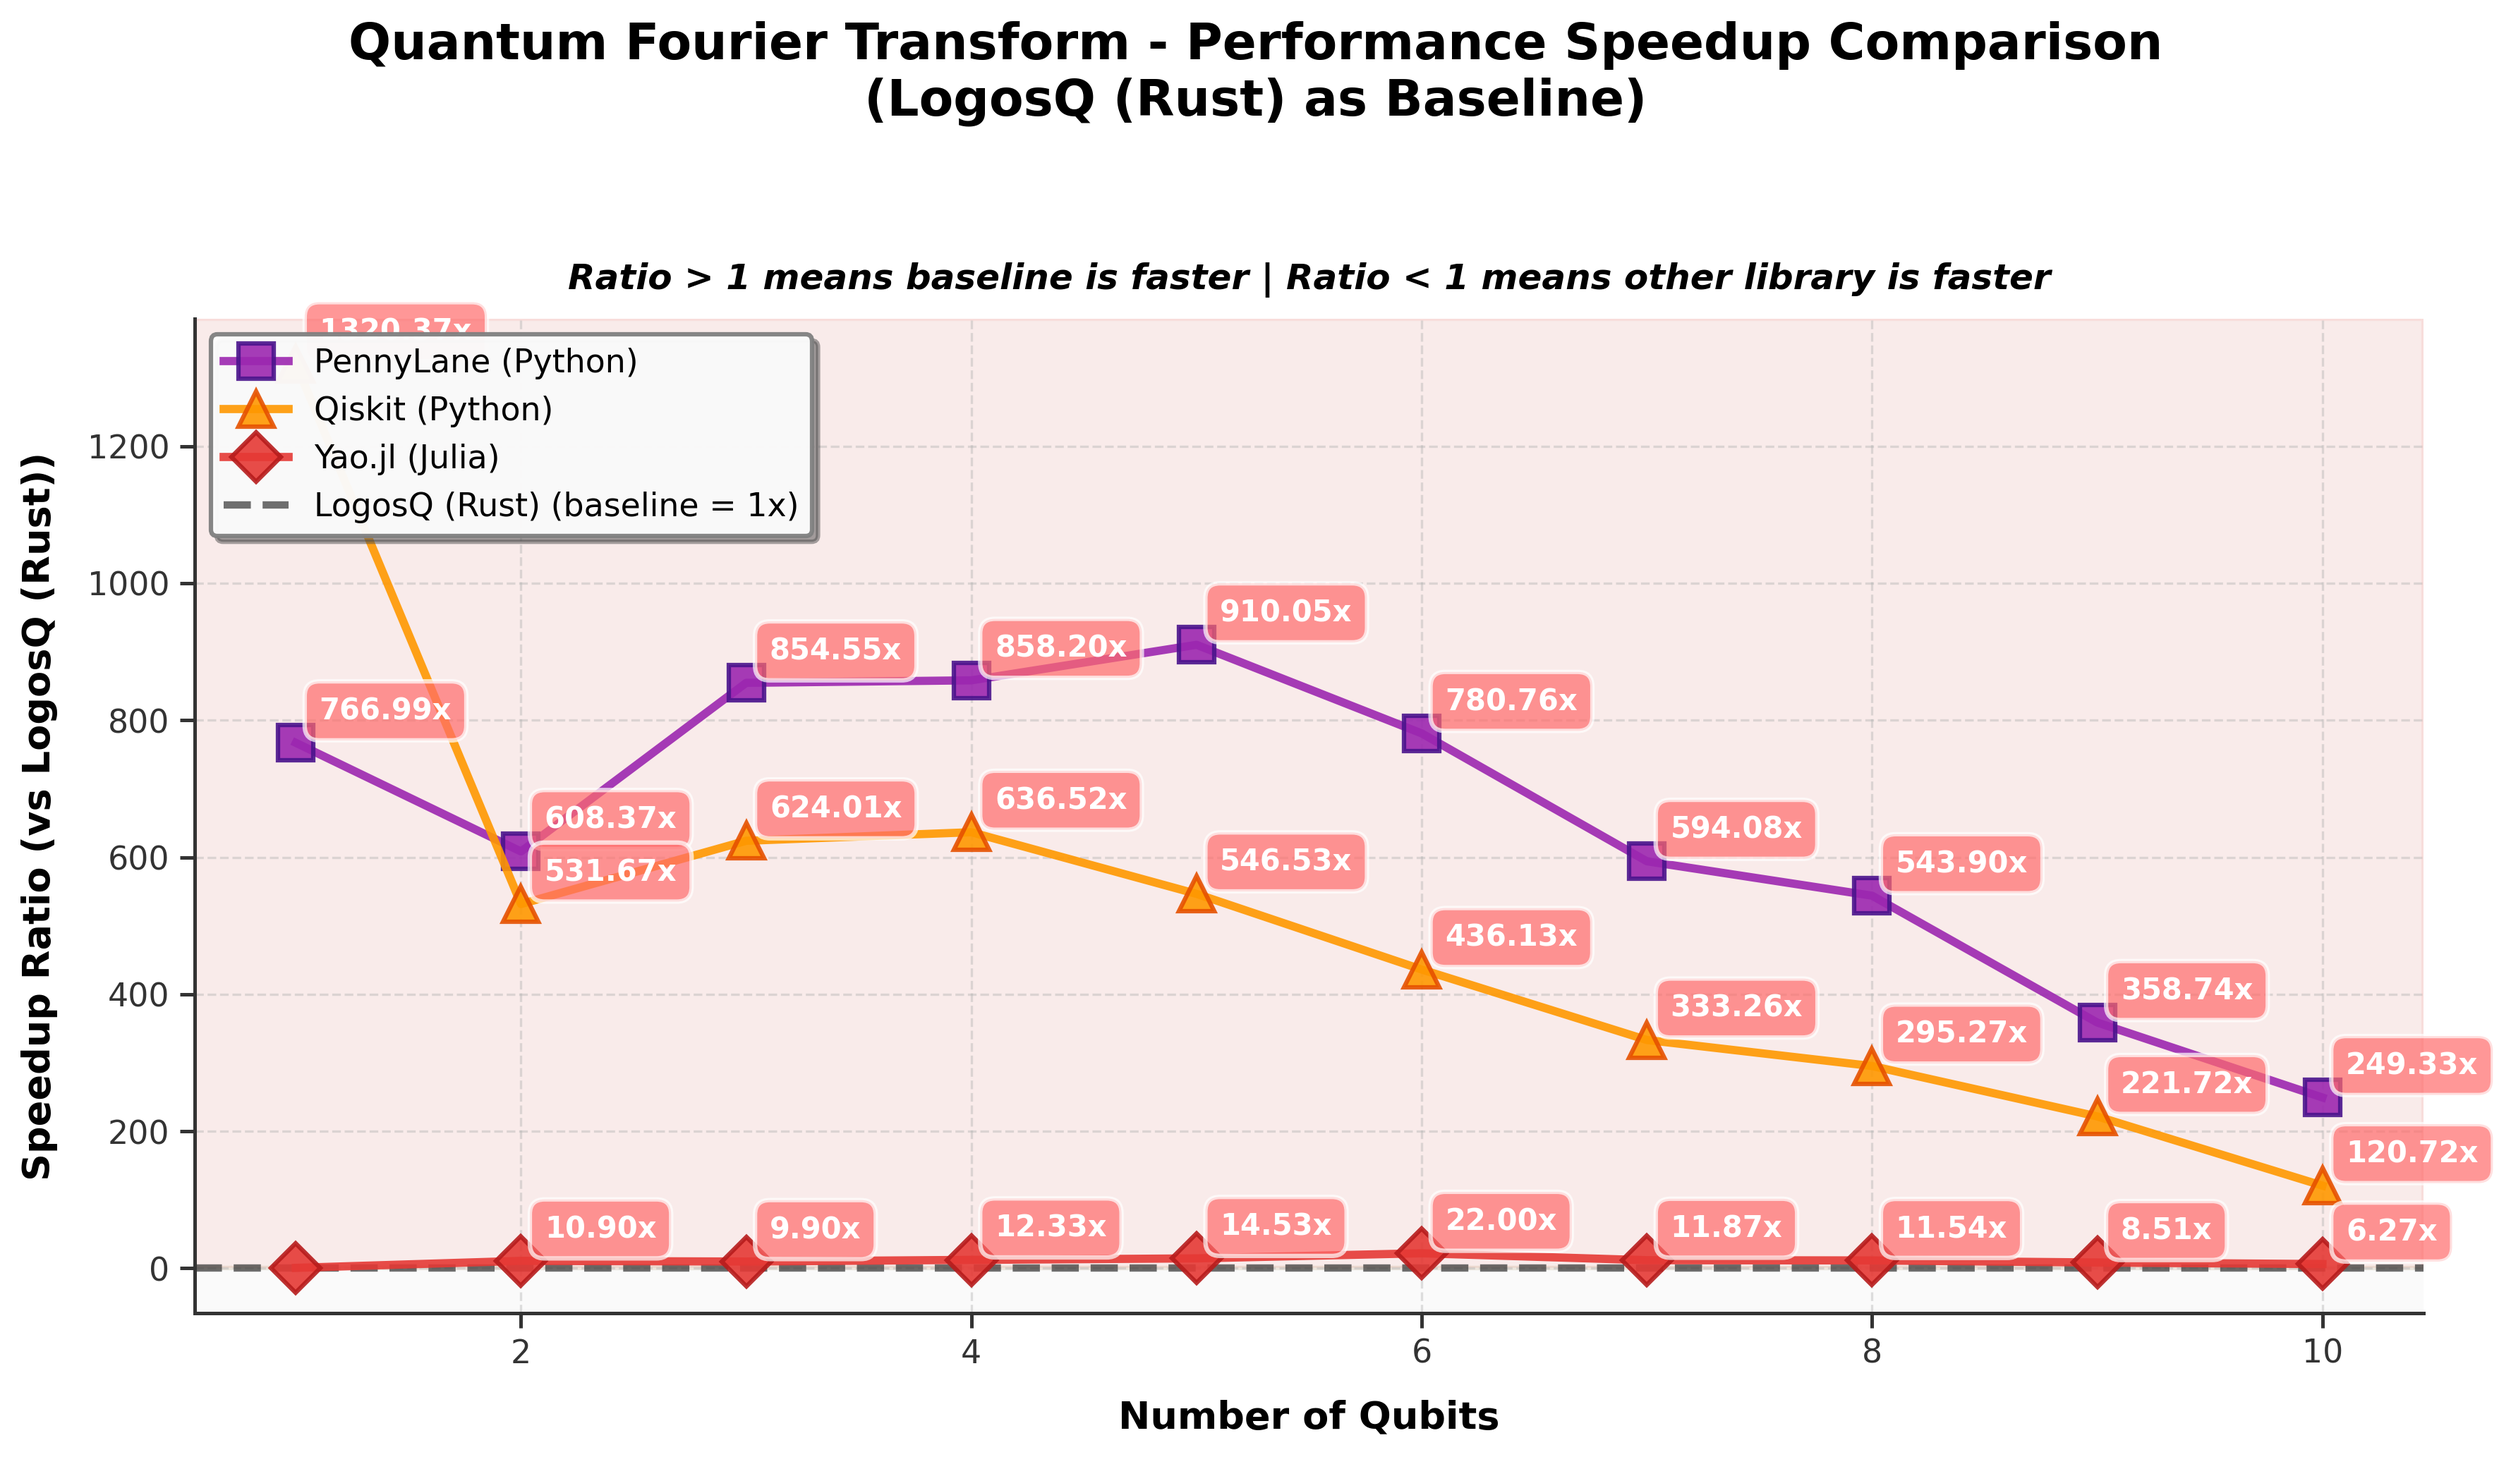
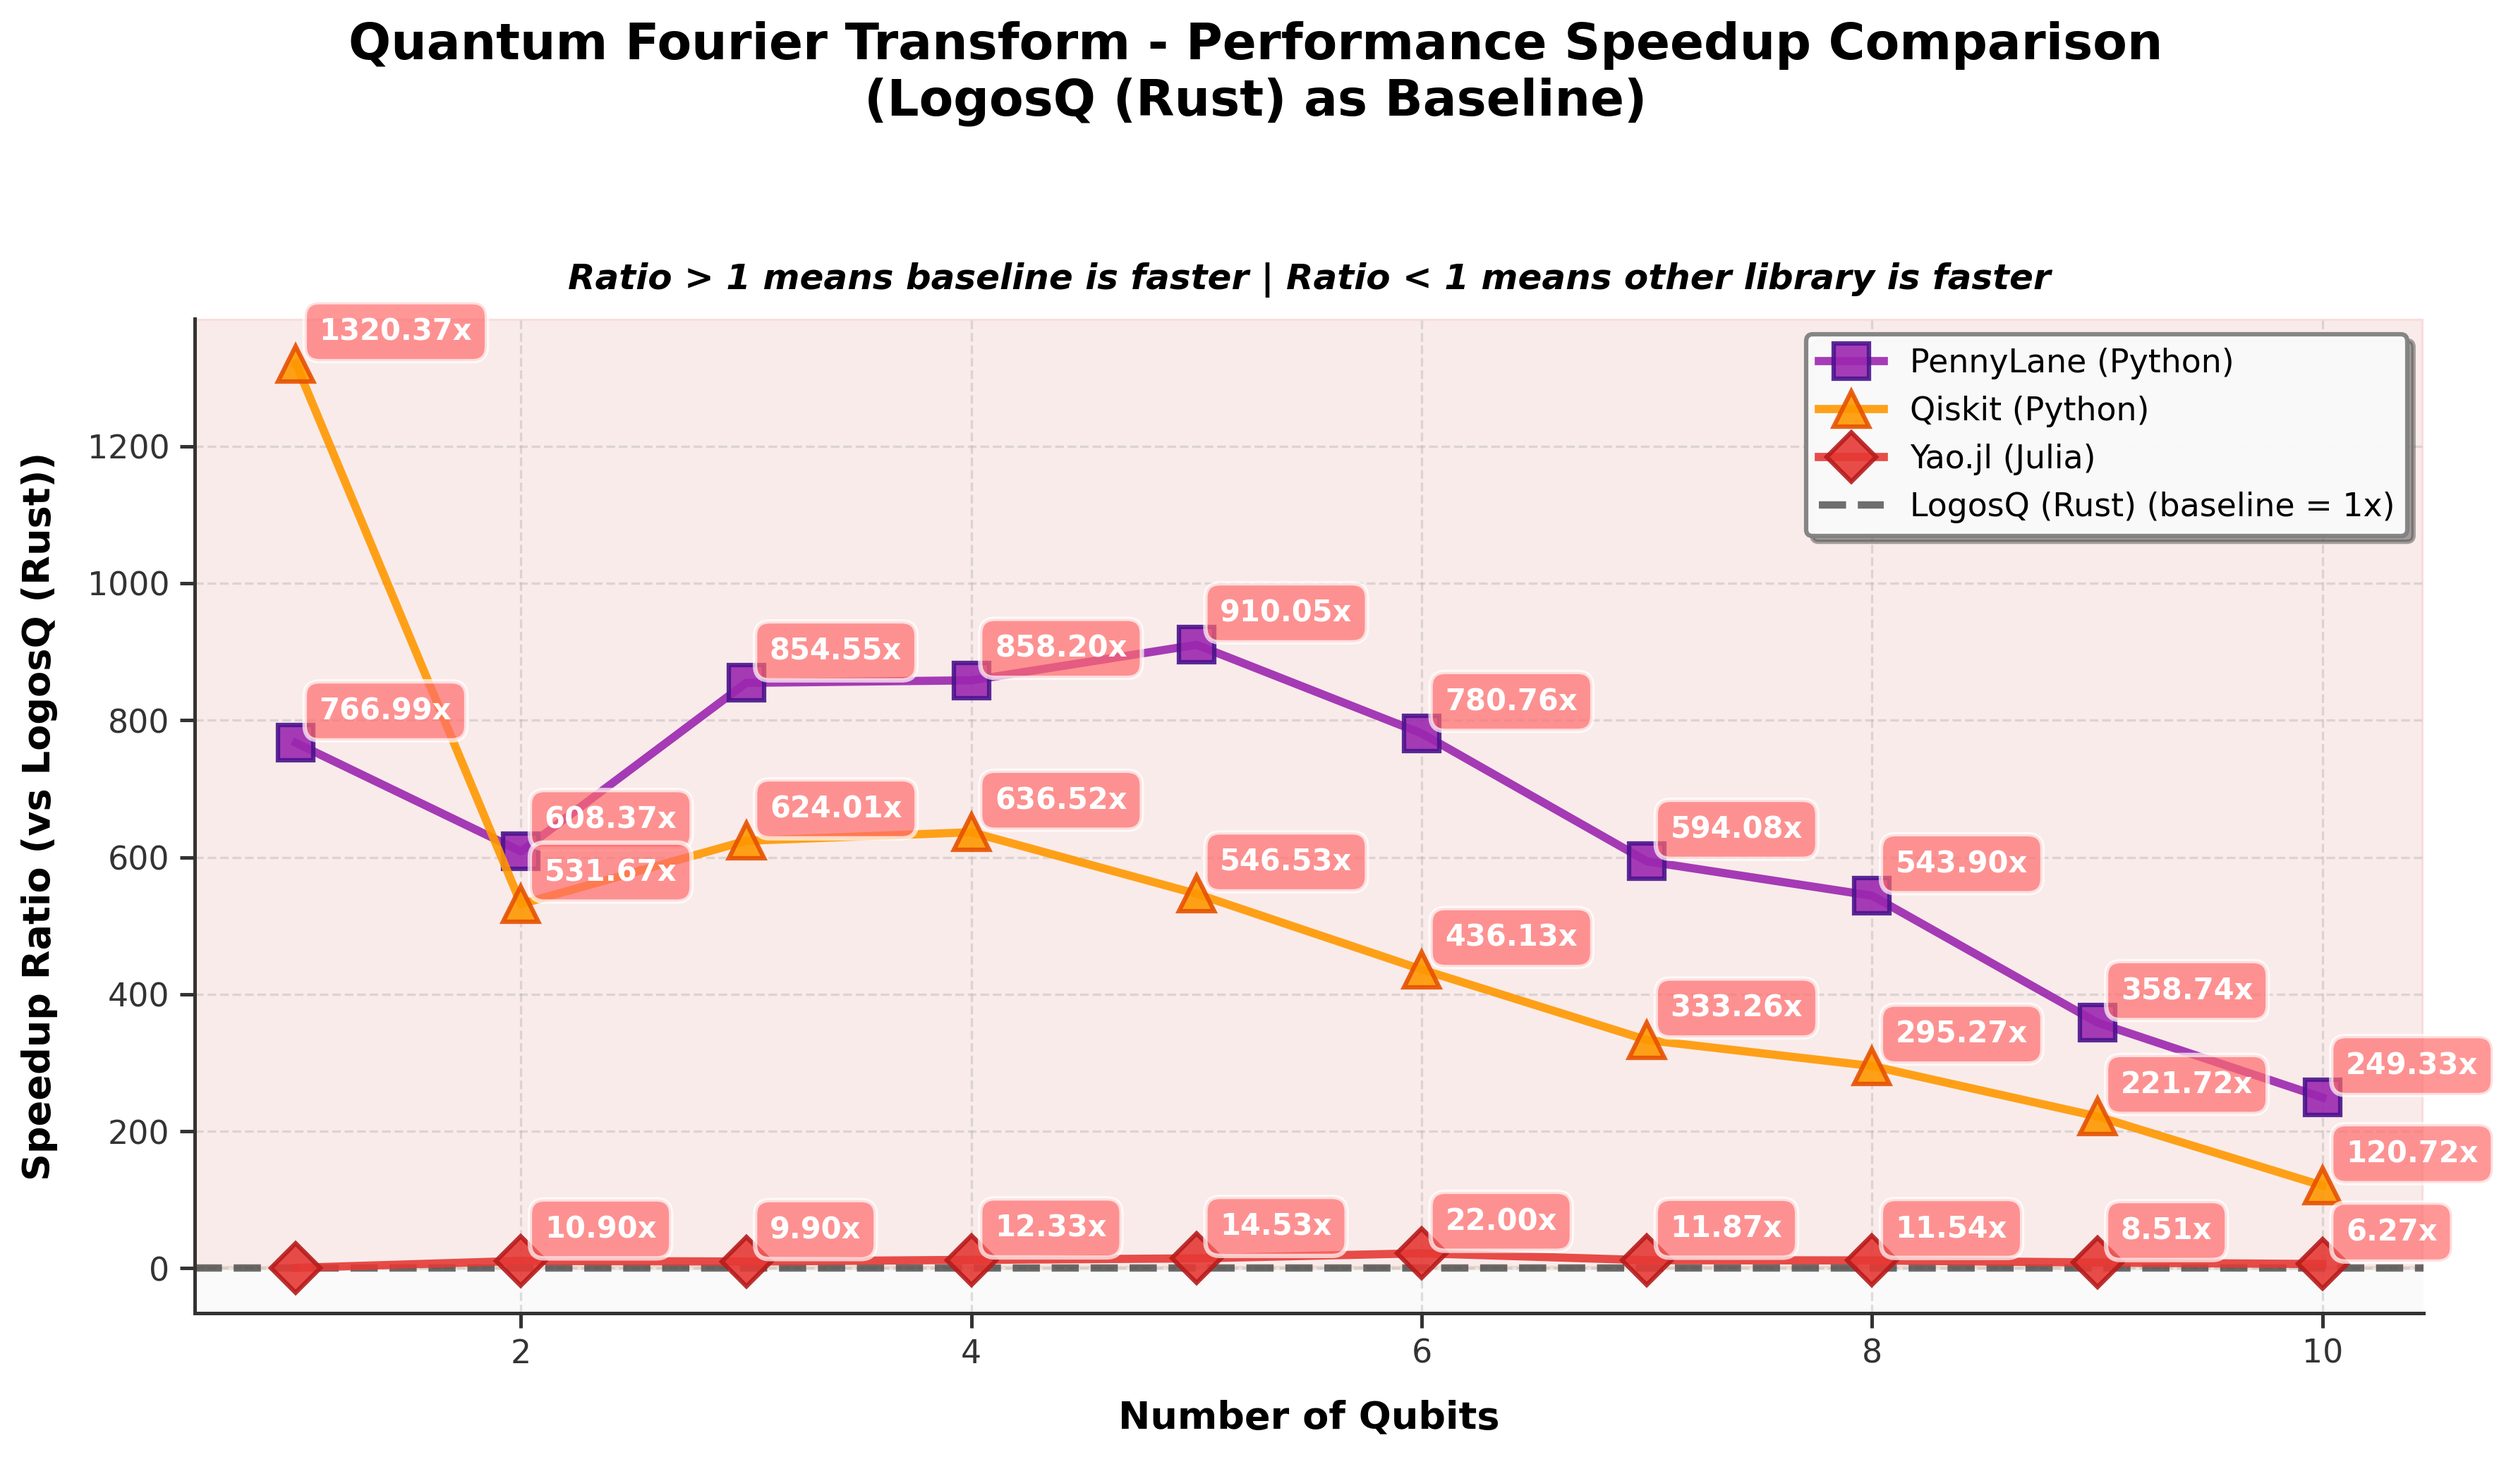
fix the plot legend problem.

Changed region(s): [[0.7143, 0.2168, 0.9938, 0.3717], [0.0621, 0.2168, 0.3416, 0.3717]]

diff --git a/pennylane/QuantumFourierTransform/plot_qft_comparison.py b/pennylane/QuantumFourierTransform/plot_qft_comparison.py
@@ -423,7 +423,7 @@ def plot_speedup_comparison(
     ax.set_ylabel(f'Speedup Ratio (vs {baseline_name})', fontsize=13, fontweight='bold', labelpad=10)
     ax.set_title('Ratio > 1 means baseline is faster | Ratio < 1 means other library is faster', 
                  fontsize=12, style='italic', pad=10)
-    ax.legend(loc='upper left', frameon=True, fancybox=True, shadow=True,
+    ax.legend(loc='upper right', frameon=True, fancybox=True, shadow=True,
               fontsize=11, framealpha=0.95, edgecolor='gray', facecolor='white')
     ax.grid(True, alpha=0.4, linestyle='--', linewidth=0.8, zorder=1)
     ax.set_facecolor('#FAFAFA')
